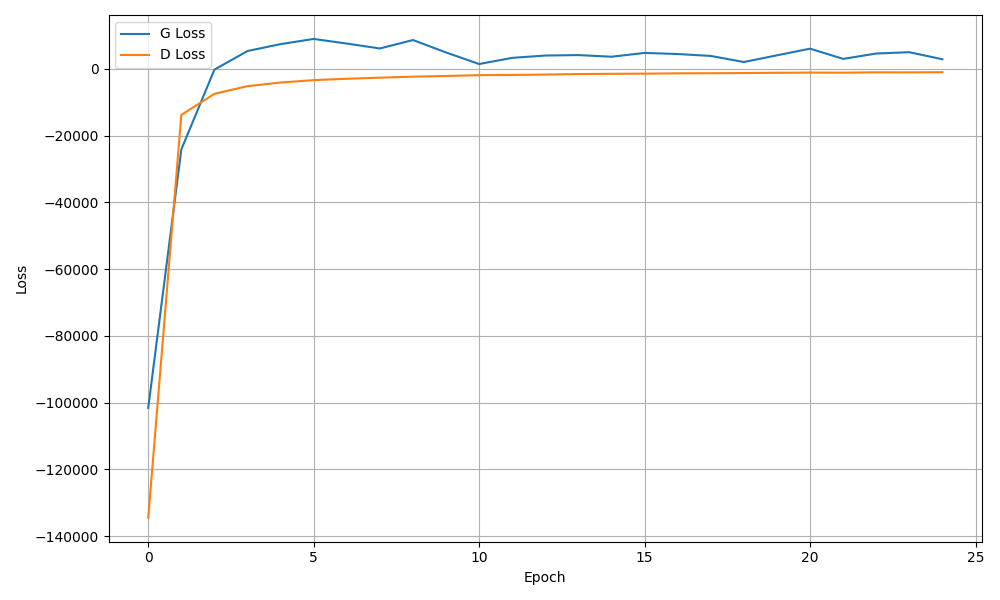
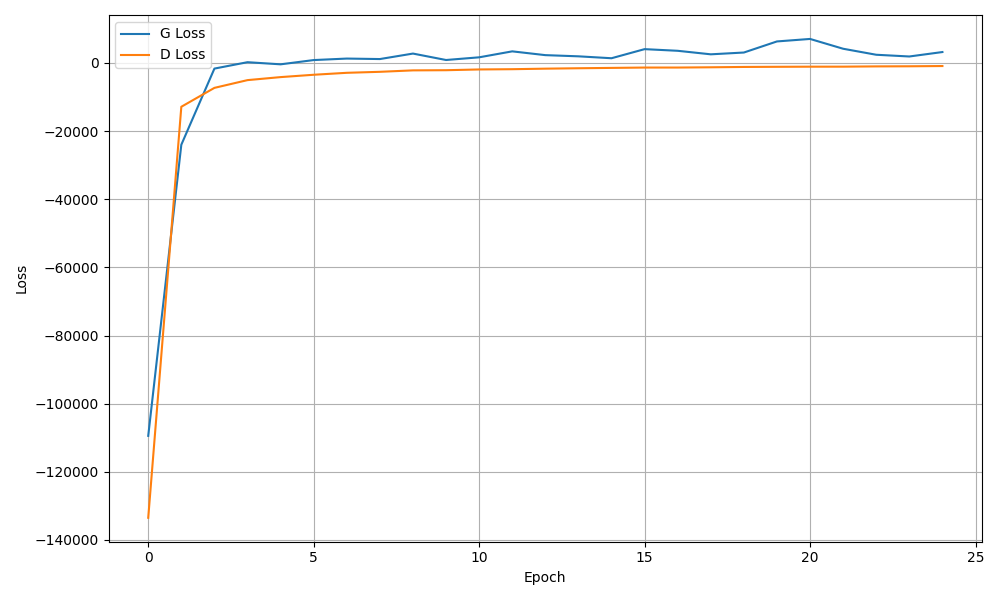
Added latent vector to GAN

diff --git a/src/field_reconstruction/train.py b/src/field_reconstruction/train.py
@@ -204,7 +204,9 @@ def train_cwgan(generator, discriminator, data, model_save_path, config):
 
             # === Train Discriminator ===
             for _ in range(critic_iter):
-                z_fake = generator(fields_only).detach()
+                fields_only_random = torch.cat([fields_only, torch.randn_like(fields_only[:, :1])], dim=1)
+                # Now input to Generator is shape: (B, 6, 64, 32)
+                z_fake = generator(fields_only_random).detach()
                 real_input = torch.cat([fields_only, targets], dim=1)
                 fake_input = torch.cat([fields_only, z_fake], dim=1)
 
@@ -248,7 +250,8 @@ def train_cwgan(generator, discriminator, data, model_save_path, config):
                 grad_penalty_history.append(grad_penalty)
 
             # === Train Generator ===
-            z_fake = generator(fields_only)
+            fields_only_random = torch.cat([fields_only, torch.randn_like(fields_only[:, :1])], dim=1)
+            z_fake = generator(fields_only_random)
             fake_input = torch.cat([fields_only, z_fake], dim=1)
             fake_pred = discriminator(fake_input)
             g_loss = cwgan_generator_loss(fake_pred, z_fake, targets, lambda_l1)
@@ -311,7 +314,8 @@ def show_random_cwgan_reconstruction(generator, val_loader, device, save_path):
         fields_only = inputs[:, 1:, :, :]
 
         # Generate reconstruction
-        reconstruction = generator(fields_only)
+        fields_only_random = torch.cat([fields_only, torch.randn_like(fields_only[:, :1])], dim=1)
+        reconstruction = generator(fields_only_random)
 
         # Move tensors to cpu and convert to numpy
         inputs_np = inputs.cpu().numpy()
@@ -325,12 +329,14 @@ def show_random_cwgan_reconstruction(generator, val_loader, device, save_path):
         vmax = max(targets_np[idx].max(), reconstruction_np[idx].max())
         vmin = min(targets_np[idx].min(), reconstruction_np[idx].min())
 
-        axes[0].imshow(targets_np[idx].transpose(1, 2, 0).squeeze(), vmin=vmin, vmax=vmax)
-        axes[0].set_title('Original Target')
+        channel_to_plot = 0  # Plot only the first channel
+
+        axes[0].imshow(targets_np[idx, channel_to_plot], vmin=vmin, vmax=vmax)
+        axes[0].set_title(f'Original Target - Channel {channel_to_plot}')
         axes[0].axis('off')
 
-        axes[1].imshow(reconstruction_np[idx].transpose(1, 2, 0).squeeze(), vmin=vmin, vmax=vmax)
-        axes[1].set_title('Generator Reconstruction')
+        axes[1].imshow(reconstruction_np[idx, channel_to_plot], vmin=vmin, vmax=vmax)
+        axes[1].set_title(f'Generator Reconstruction - Channel {channel_to_plot}')
         axes[1].axis('off')
 
         plt.suptitle('CWGAN Random Reconstruction')

diff --git a/src/field_reconstruction/test.py b/src/field_reconstruction/test.py
@@ -200,10 +200,11 @@ def evaluate_interp(test_loader, mode: str = 'cubic', nb_channels: int = 2, vari
         "l2_per_var": l2_errors,
     }
 
-def evaluate(model_type, test_loader, checkpoint_path, variable_names=None):
+def evaluate(model_type, test_loader, checkpoint_path, variable_names=None, config_file=None):
     
     device = get_device()
-    
+    sample_input, _ = next(iter(test_loader))
+    sample_input = sample_input.to(device)
     nb_channels = sample_input.shape[1]
 
     if model_type == "cubic_interpolation":
@@ -213,8 +214,10 @@ def evaluate(model_type, test_loader, checkpoint_path, variable_names=None):
         evaluate_interp(test_loader, mode="kriging", nb_channels=nb_channels, variable_names=variable_names)
         return
 
-    model = create_model(model_type, nb_channels=nb_channels).to(device)
-
+    model = create_model(model_type, nb_channels=nb_channels)
+    if "gan" in model_type:
+        model = model[0]
+    model = model.to(device)
     checkpoint_path = os.path.join("models/saves", checkpoint_path)
     model.load_state_dict(torch.load(checkpoint_path, map_location=device))
     model.eval()
@@ -238,9 +241,16 @@ def evaluate(model_type, test_loader, checkpoint_path, variable_names=None):
             elif "vitae" in model_type:
                 pred_dec, pred_enc = model(inputs)
                 preds = pred_dec
+            elif "gan" in model_type and 'gan_randomness' in config_file and config_file['gan_randomness'] == "True":
+                injection_mode = config_file['gan_injection_mode']
+                pass
             else:
+                if "gan" in model_type: 
+                    inputs = inputs[:, 1:, :, :]  # Skip the first channel if it's a mask
                 preds = model(inputs)
 
+            
+                
             batch_size, nb_channels, H, W = targets.shape
             rrmse_batch, mae_batch, ssim_batch = [], [], []
 

diff --git a/src/field_reconstruction/models/cwgan.py b/src/field_reconstruction/models/cwgan.py
@@ -8,7 +8,7 @@ class Generator(nn.Module):
     Adapted for 64x32 input to support 6 encoder steps.
     """
     
-    def __init__(self, in_channels=5, out_channels=5, *args, **kwargs):
+    def __init__(self, in_channels=6, out_channels=5, *args, **kwargs):
         super(Generator, self).__init__(*args, **kwargs)
         # Encoder blocks
         self.encoder1 = nn.Sequential(
@@ -73,8 +73,9 @@ class Generator(nn.Module):
             nn.BatchNorm2d(64),
             nn.ReLU()
         )
-        self.final = nn.ConvTranspose2d(69, out_channels, kernel_size=3, stride=1, padding=1)  # 64x32 -> 64x32
-
+        print(f"Output channels: {out_channels}")
+        self.final = nn.ConvTranspose2d(64, out_channels, kernel_size=3, stride=1, padding=1)  # 64x32 -> 64x32
+        # TODO: if no random 69
         initialize_weights_normal(self)
 
     def forward(self, x):
@@ -93,12 +94,12 @@ class Generator(nn.Module):
         dec4_out = self.decoder4(torch.cat([dec3_out, enc3_out], dim=1)) 
         dec5_out = self.decoder5(torch.cat([dec4_out, enc2_out], dim=1)) 
         dec6_out = self.decoder6(torch.cat([dec5_out, enc1_out], dim=1))
-        out = self.final(torch.cat([dec6_out, x], dim=1))  # Adding input x as skip connection for stability
+        out = self.final(dec6_out)  # Removing input x skip connection to keep output channels correct
         return out
     
 
 class Discriminator(nn.Module):
-    def __init__(self, in_channels=5, *args, **kwargs):
+    def __init__(self, in_channels=10, *args, **kwargs):
         super(Discriminator, self).__init__(*args, **kwargs)
         self.conv1 = nn.Conv2d(in_channels, 64, kernel_size=4, stride=2, padding=1)
         self.conv2 = nn.Conv2d(64, 128, kernel_size=4, stride=2, padding=1)

diff --git a/src/field_reconstruction/plots_creator.py b/src/field_reconstruction/plots_creator.py
@@ -251,6 +251,10 @@ def plot_random_reconstruction(model, val_loader, device, model_name, save_dir, 
                     elif "vitae" in model_name:
                         dex_x, enc_x = model(x_in)
                         pred = dex_x.squeeze().cpu().numpy()[ch]
+                    elif "gan" in model_name:
+                        #Remove first channel (mask) for GANs
+                        x_in = x_in[:, 1:, :, :]
+                        pred = model(x_in).squeeze().cpu().numpy()[ch]
                     else:
                         pred = model(x_in).squeeze().cpu().numpy()[ch]
 

diff --git a/src/field_reconstruction/utils.py b/src/field_reconstruction/utils.py
@@ -84,7 +84,7 @@ def create_model(model, nb_channels=2):
         return ReconstructionVAE(in_channels=nb_channels, out_channels=nb_channels-1, latent_dim=128)
     elif model == "cwgan_gp":
         from models.cwgan import Generator, Discriminator
-        return Generator(in_channels=nb_channels-1, out_channels=nb_channels-1), Discriminator(in_channels=2*nb_channels-2)
+        return Generator(in_channels=nb_channels, out_channels=nb_channels-1), Discriminator(in_channels=2*nb_channels-2)
     else:
         raise ValueError(f"Unknown model type: {model}")
 

diff --git a/src/field_reconstruction/main.py b/src/field_reconstruction/main.py
@@ -115,7 +115,7 @@ def main():
             percent=percent,
             reco_mode=reco_mode,
         )
-        evaluate(model_type, test_loader, model_path, variables)
+        evaluate(model_type, test_loader, model_path, variables, config)
 
     else:
         print("⚠ No action specified. Use --train or --test.")
